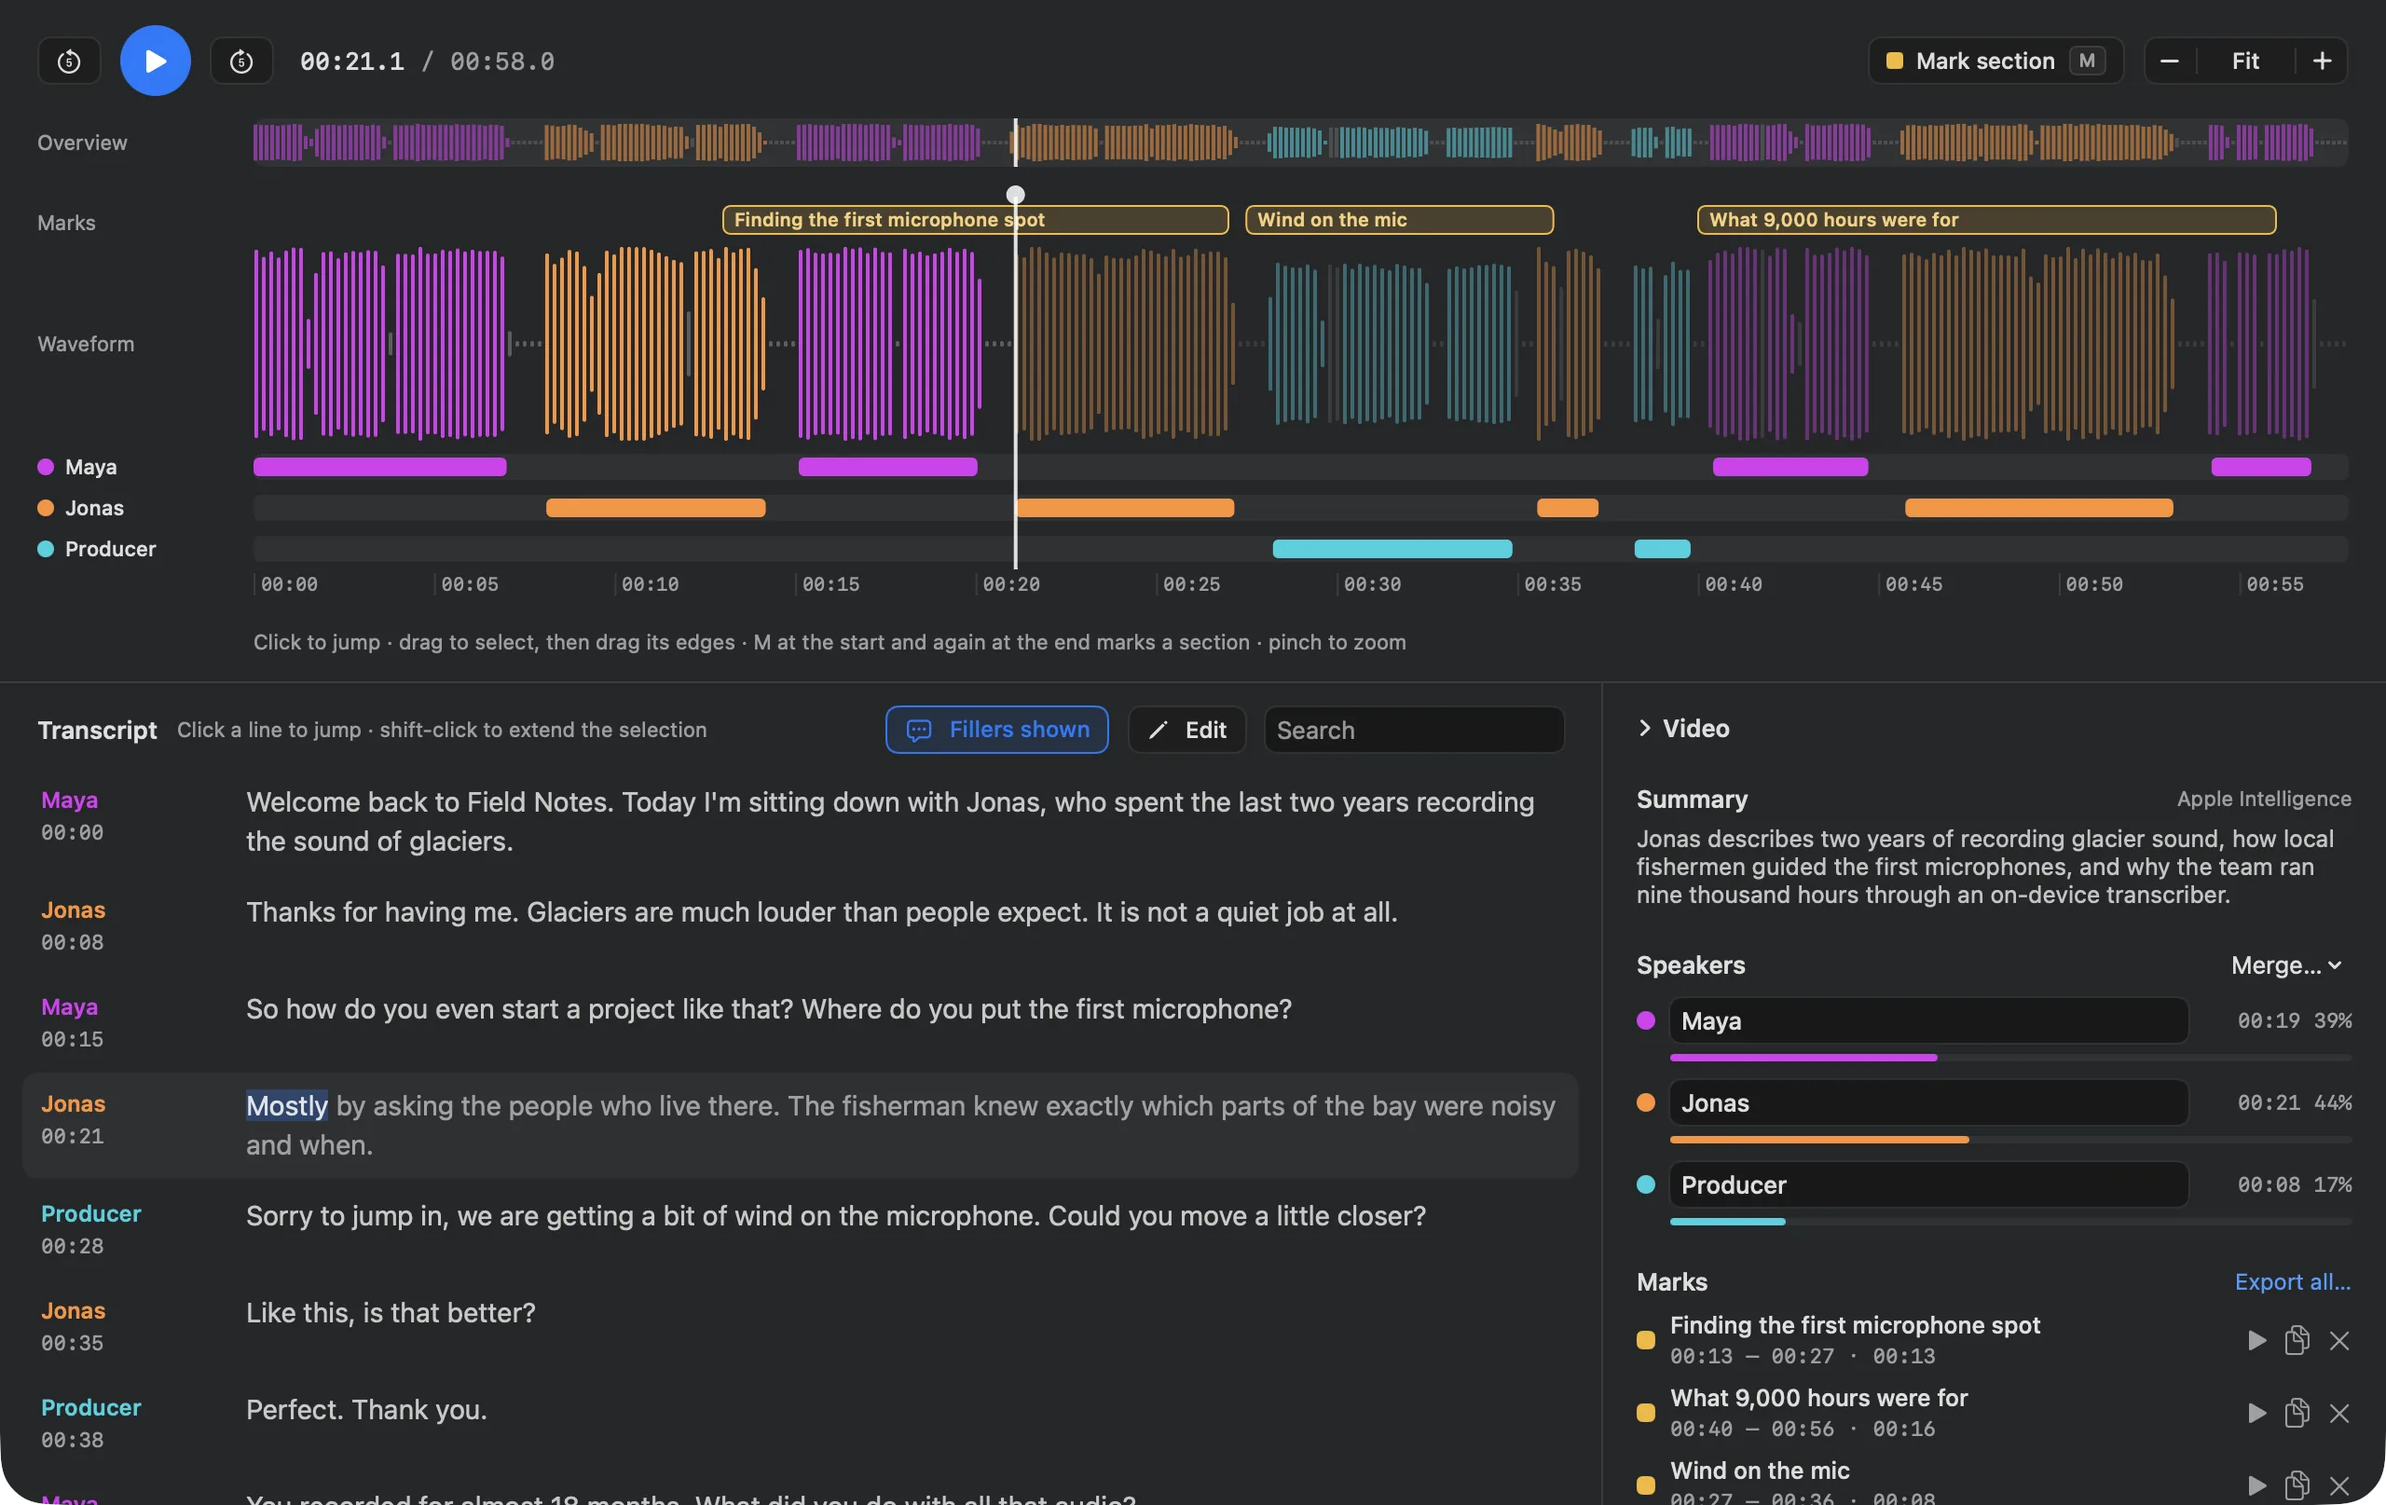
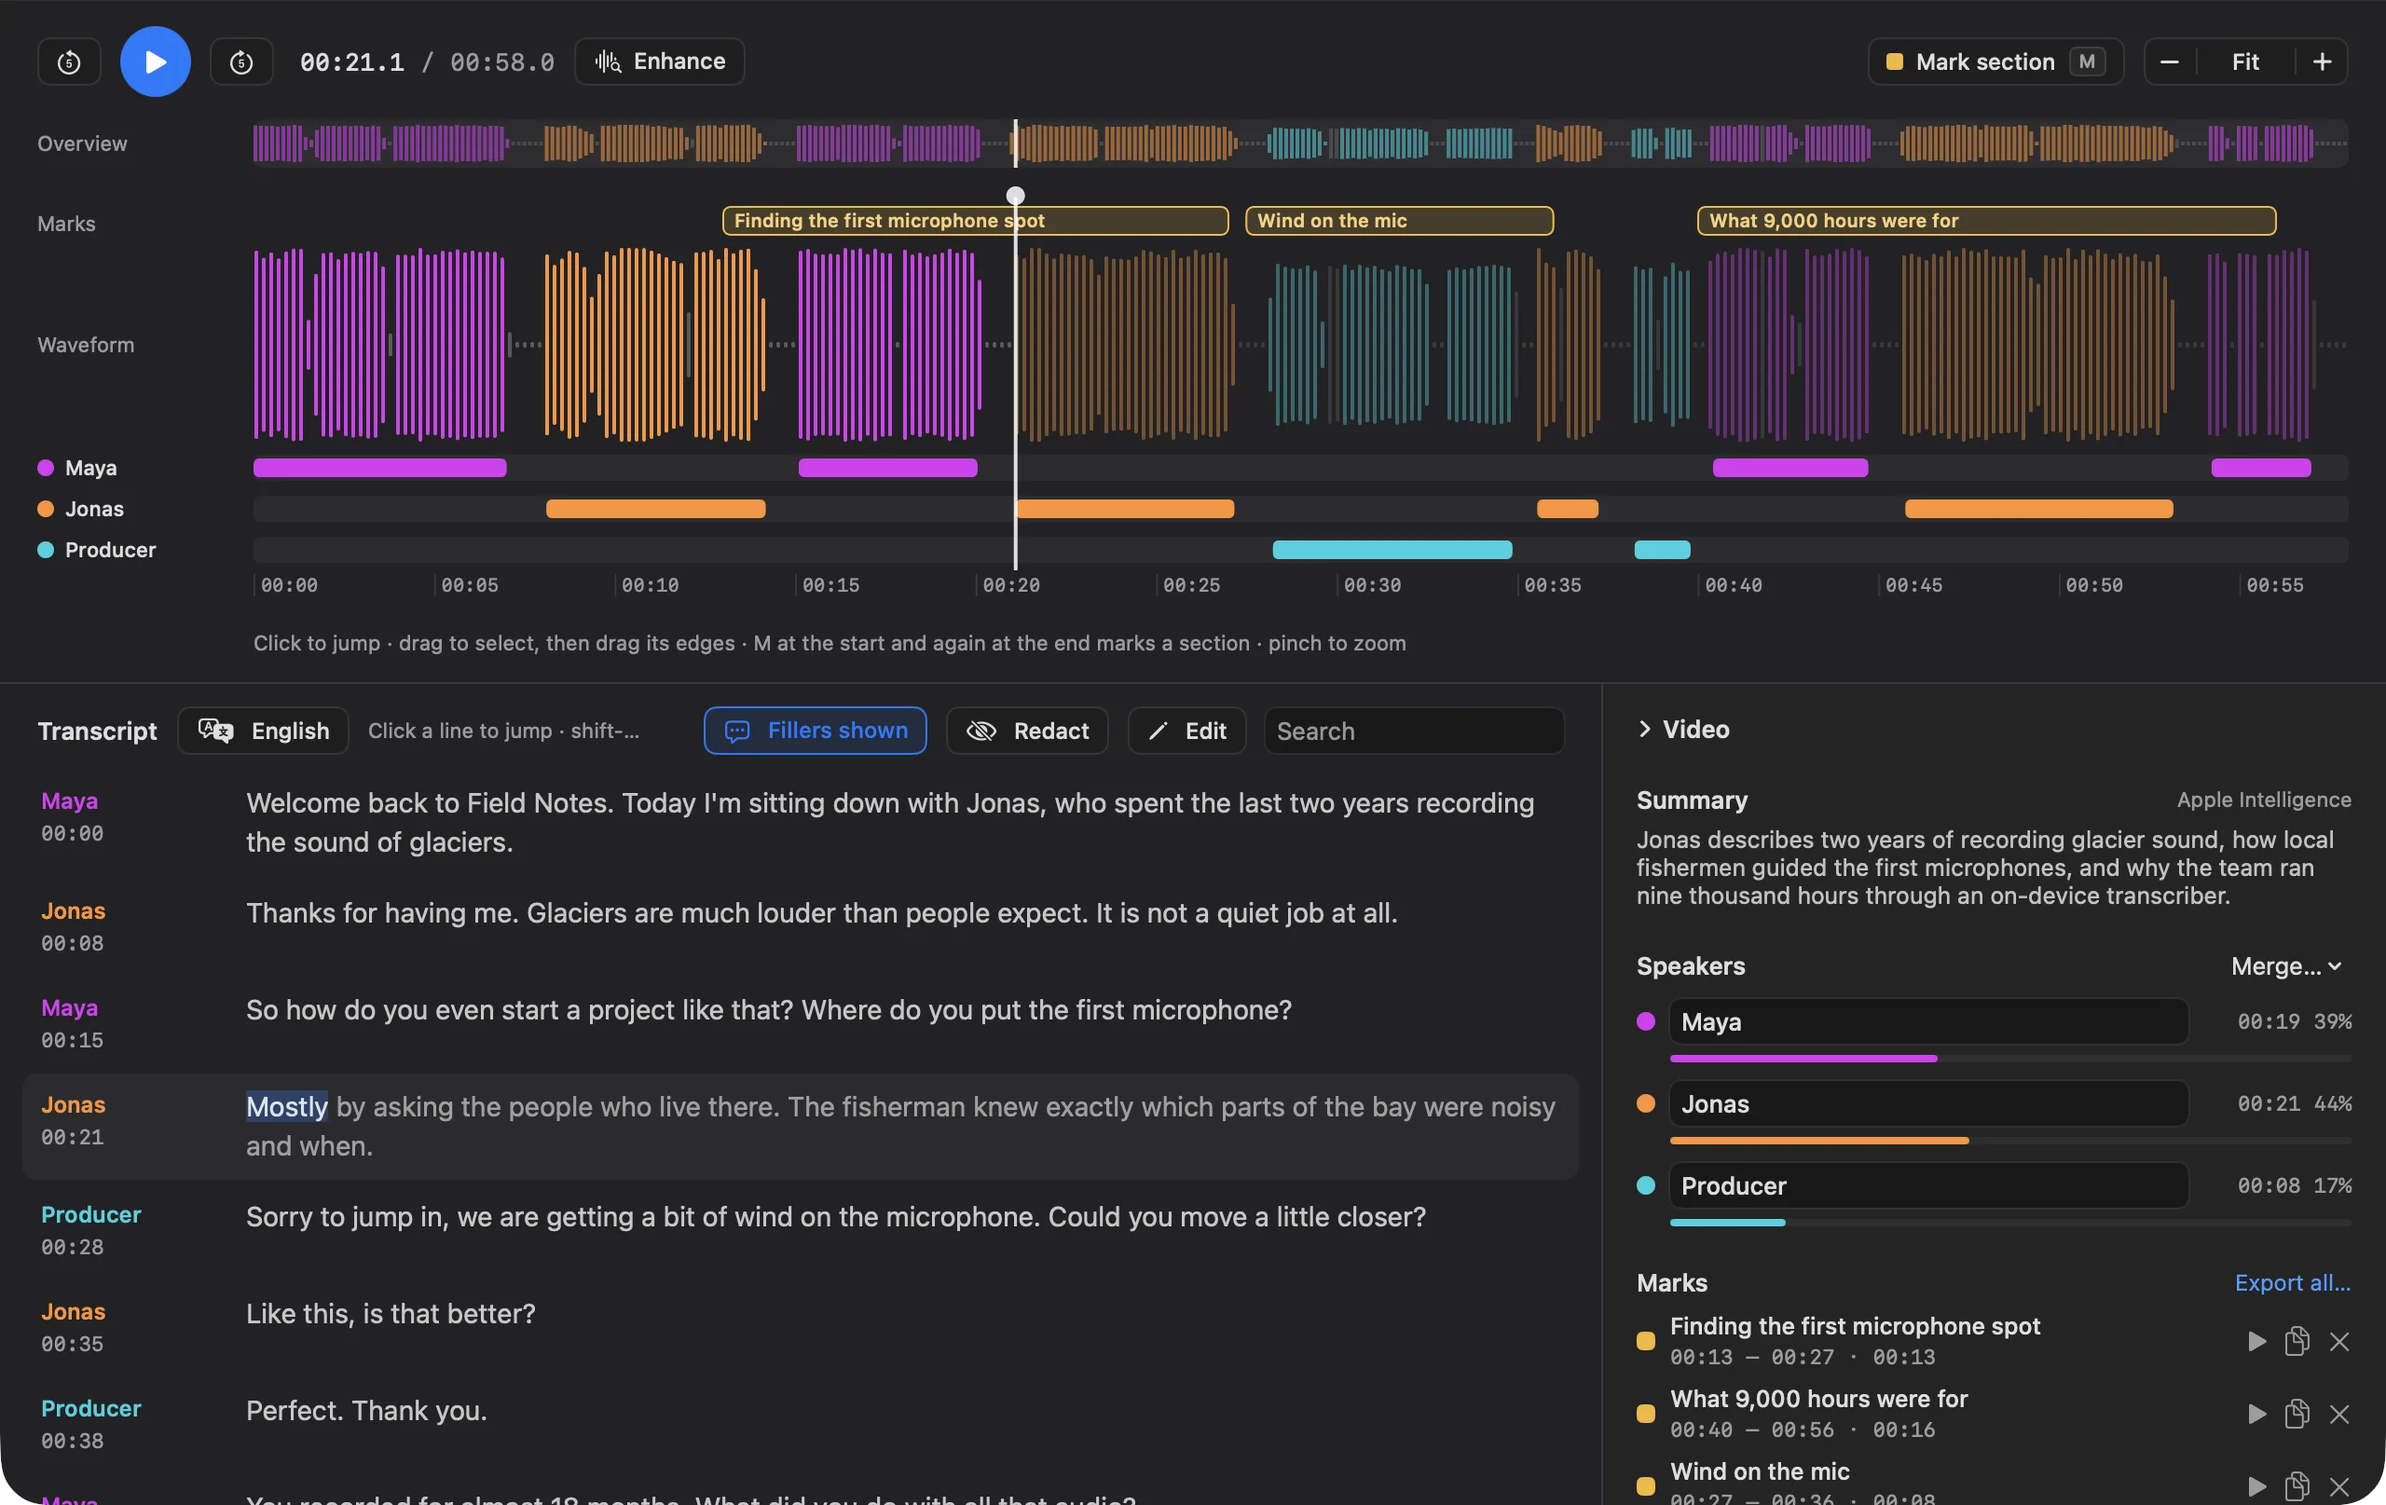
Refresh landing page and README screenshots for the new project window layout

diff --git a/site/index.html b/site/index.html
@@ -87,14 +87,14 @@
         </a>
         <a class="button quiet" href="https://github.com/djui/murmur">View on GitHub</a>
       </div>
-      <p class="facts"><span data-version>Version 0.1.3</span> · macOS 26 or later · Apple silicon · Free</p>
+      <p class="facts"><span data-version>Version 0.1.5</span> · macOS 26 or later · Apple silicon · Free</p>
       <p class="facts dim">4 MB app. The speech models, 515 MB, download once on first launch.</p>
     </div>
     <figure class="hero-shot">
       <picture>
         <source type="image/webp" media="(prefers-color-scheme: dark)" srcset="assets/img/hero-dark-1280.webp 1280w, assets/img/hero-dark-2560.webp 2560w" sizes="(min-width: 960px) 76vw, 100vw">
         <img src="assets/img/hero-light-1280.webp" srcset="assets/img/hero-light-1280.webp 1280w, assets/img/hero-light-2560.webp 2560w" sizes="(min-width: 960px) 76vw, 100vw" width="2560" height="1615" fetchpriority="high"
-             alt="Murmur's project window. A waveform colored by speaker runs under three named marks, with one lane each for Maya, Jonas and Producer. Below it the transcript has the word being played highlighted, and a sidebar shows the summary and each speaker's talk time.">
+             alt="Murmur's project window. A waveform colored by speaker runs under three named marks, with one lane each for Maya, Jonas and Producer. Next to the play controls is Enhance; the transcript header holds the language, Fillers and Redact. The transcript has the word being played highlighted, and a sidebar shows the summary and each speaker's talk time.">
       </picture>
     </figure>
   </section>
@@ -229,7 +229,7 @@
         <div><dt>25 languages</dt><dd>Recognized from the sound, then checked against the words. For any other language Murmur offers Apple’s on-device transcriber.</dd></div>
         <div><dt>Fillers and noise</dt><dd>Um and uh are found and left out of exports. Optional enhancement cleans up a noisy room for listening, transcribing and export.</dd></div>
         <div><dt>Titles and summaries</dt><dd>Where Apple Intelligence is available, it names each project and writes a short summary, which exports can include.</dd></div>
-        <div><dt>Projects, not copies</dt><dd>A <code>.murmur</code> file points to your original audio or video instead of copying it, and finds it again if you move it.</dd></div>
+        <div><dt>Projects, not copies</dt><dd>A <code>.murmur</code> file points to your original audio or video instead of copying it, and finds it again if you move it. Move a project to the Trash from the library and a recording’s audio goes with it; imported files stay where they are.</dd></div>
         <div><dt>Colors you can tell apart</dt><dd>Nine speaker color schemes, including a color-blind safe one, each tested for contrast in light and dark.</dd></div>
       </dl>
     </div>
@@ -241,7 +241,7 @@
       <div class="dl-main">
         <img class="dl-icon" src="assets/img/icon-256.webp" alt="" width="112" height="112" loading="lazy" decoding="async">
         <div>
-          <h2 id="download-title"><span data-version-title>Murmur 0.1.3</span></h2>
+          <h2 id="download-title"><span data-version-title>Murmur 0.1.5</span></h2>
           <p>Free, for macOS 26 or later on Apple silicon. Notarized by Apple, and it updates itself.</p>
           <div class="get">
             <a class="button primary" href="https://github.com/djui/murmur/releases/latest" data-download>
